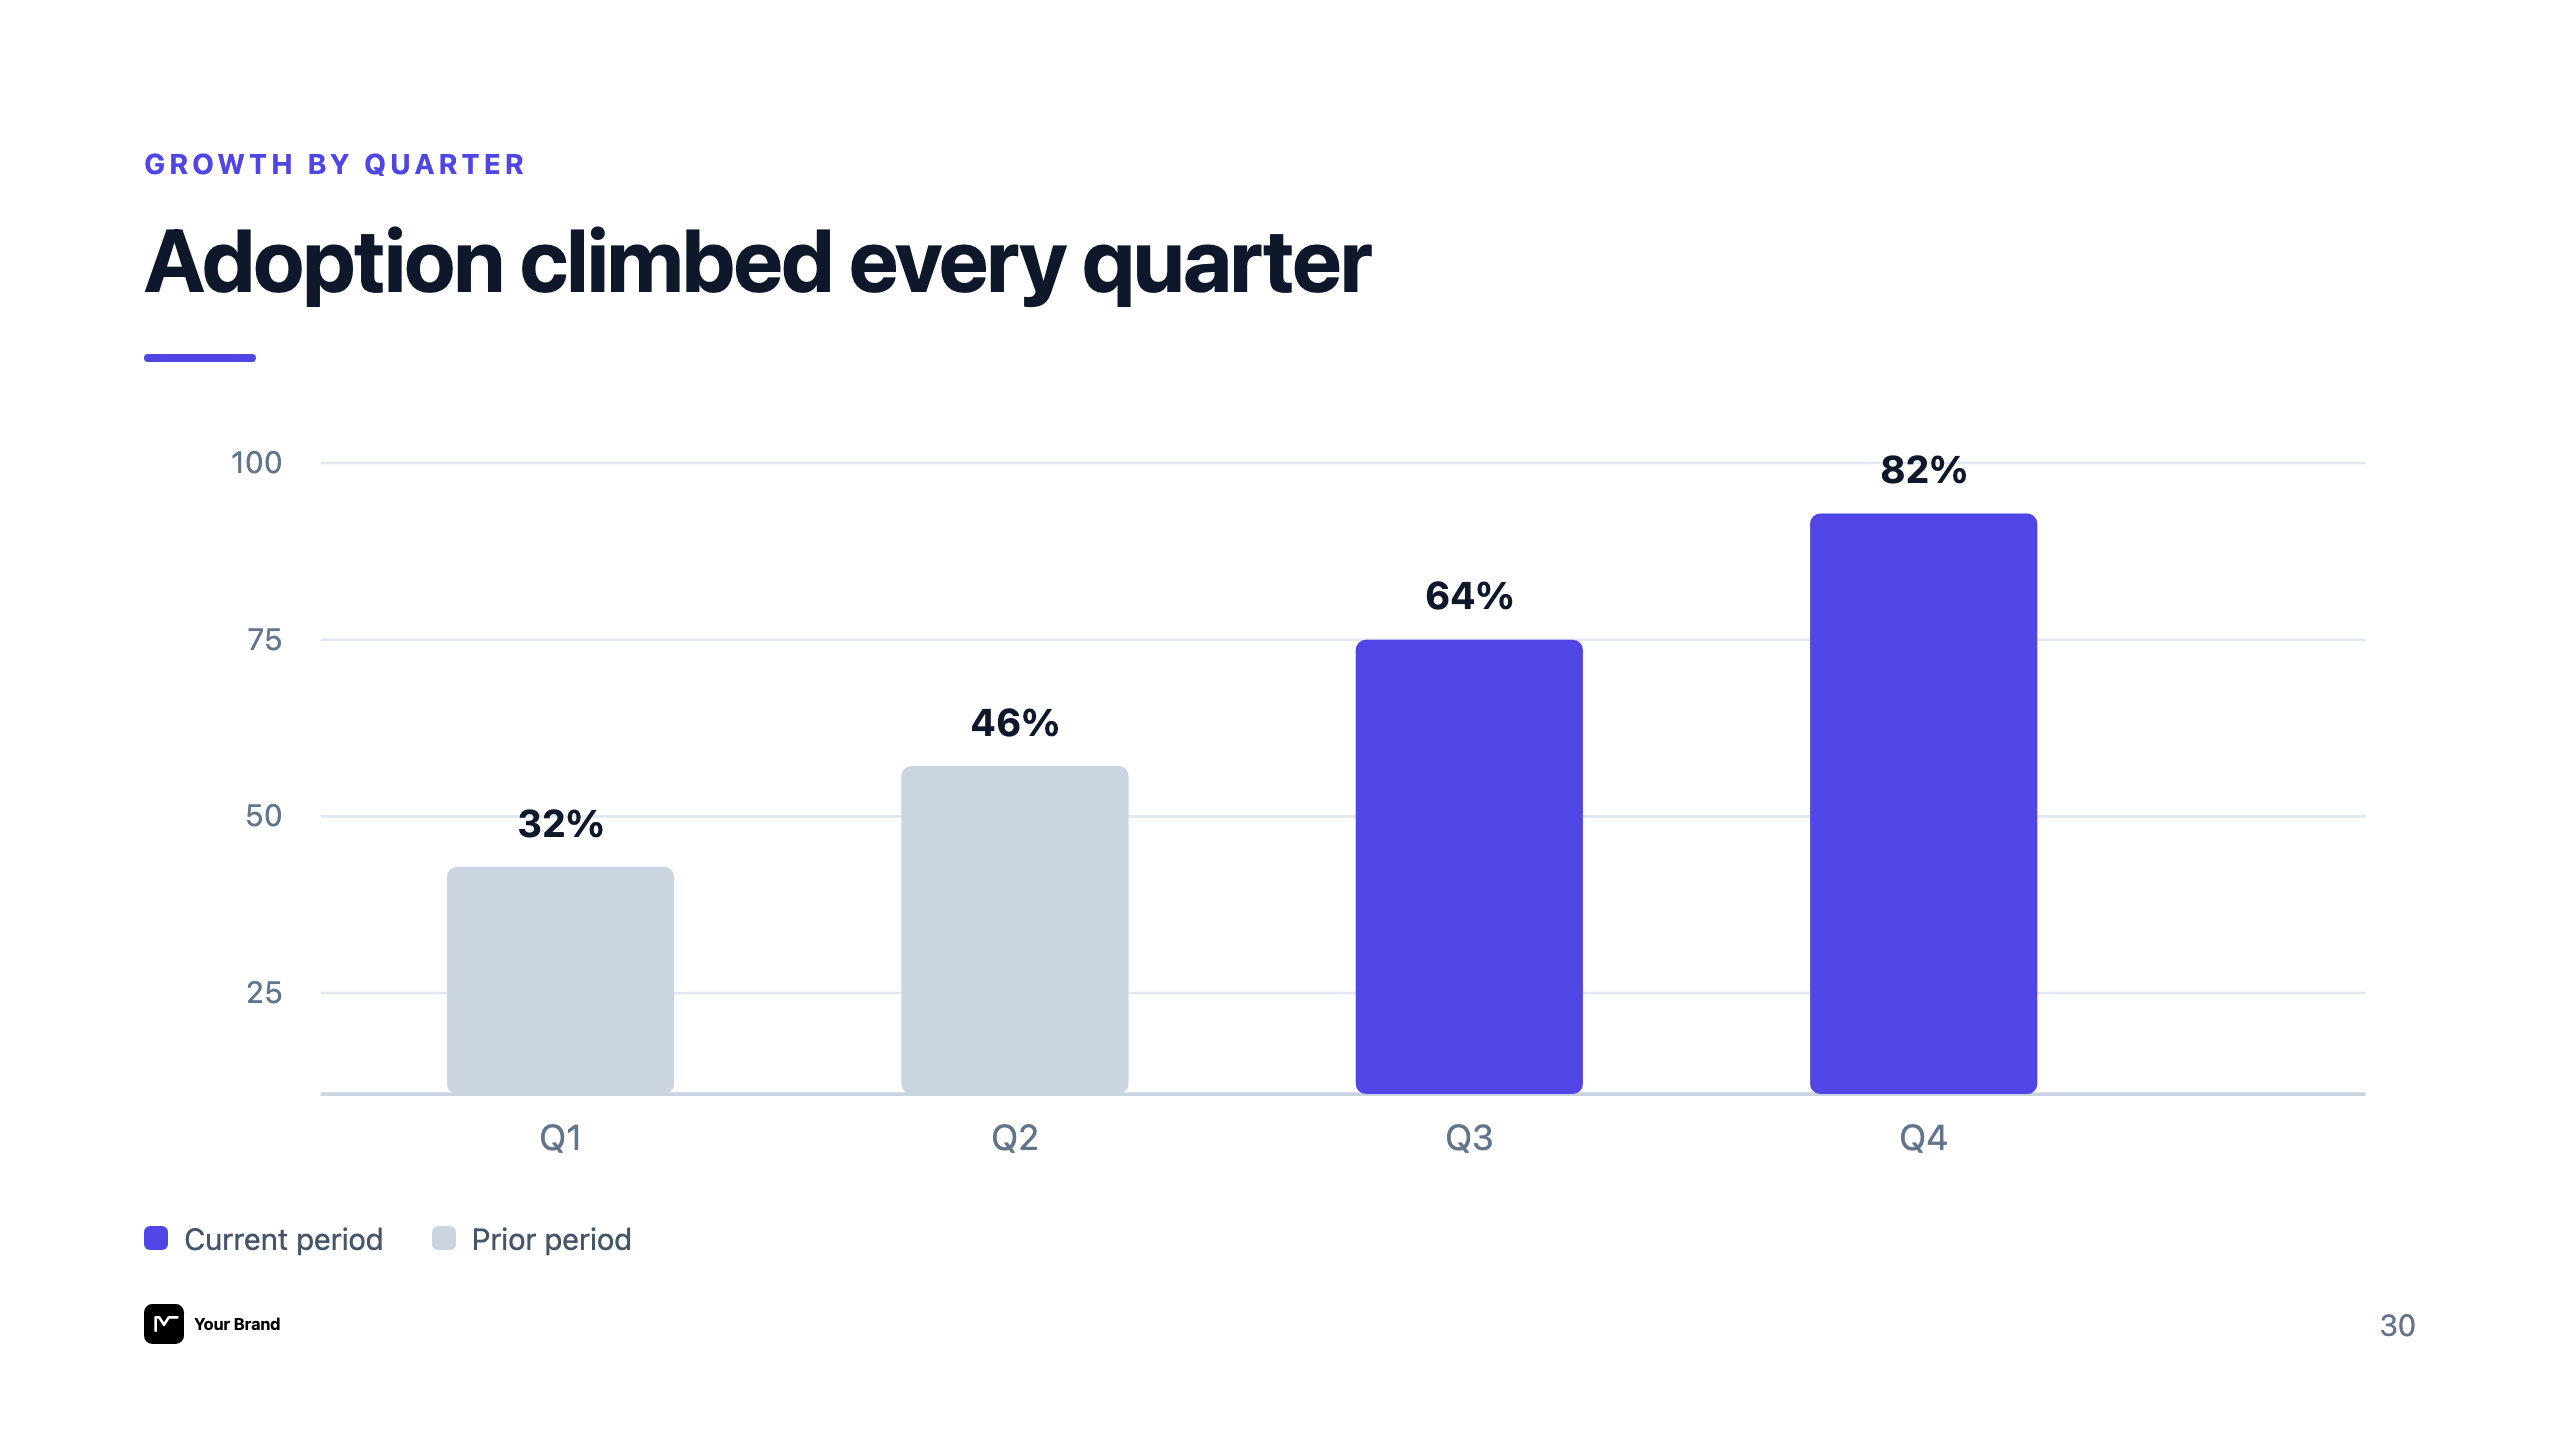
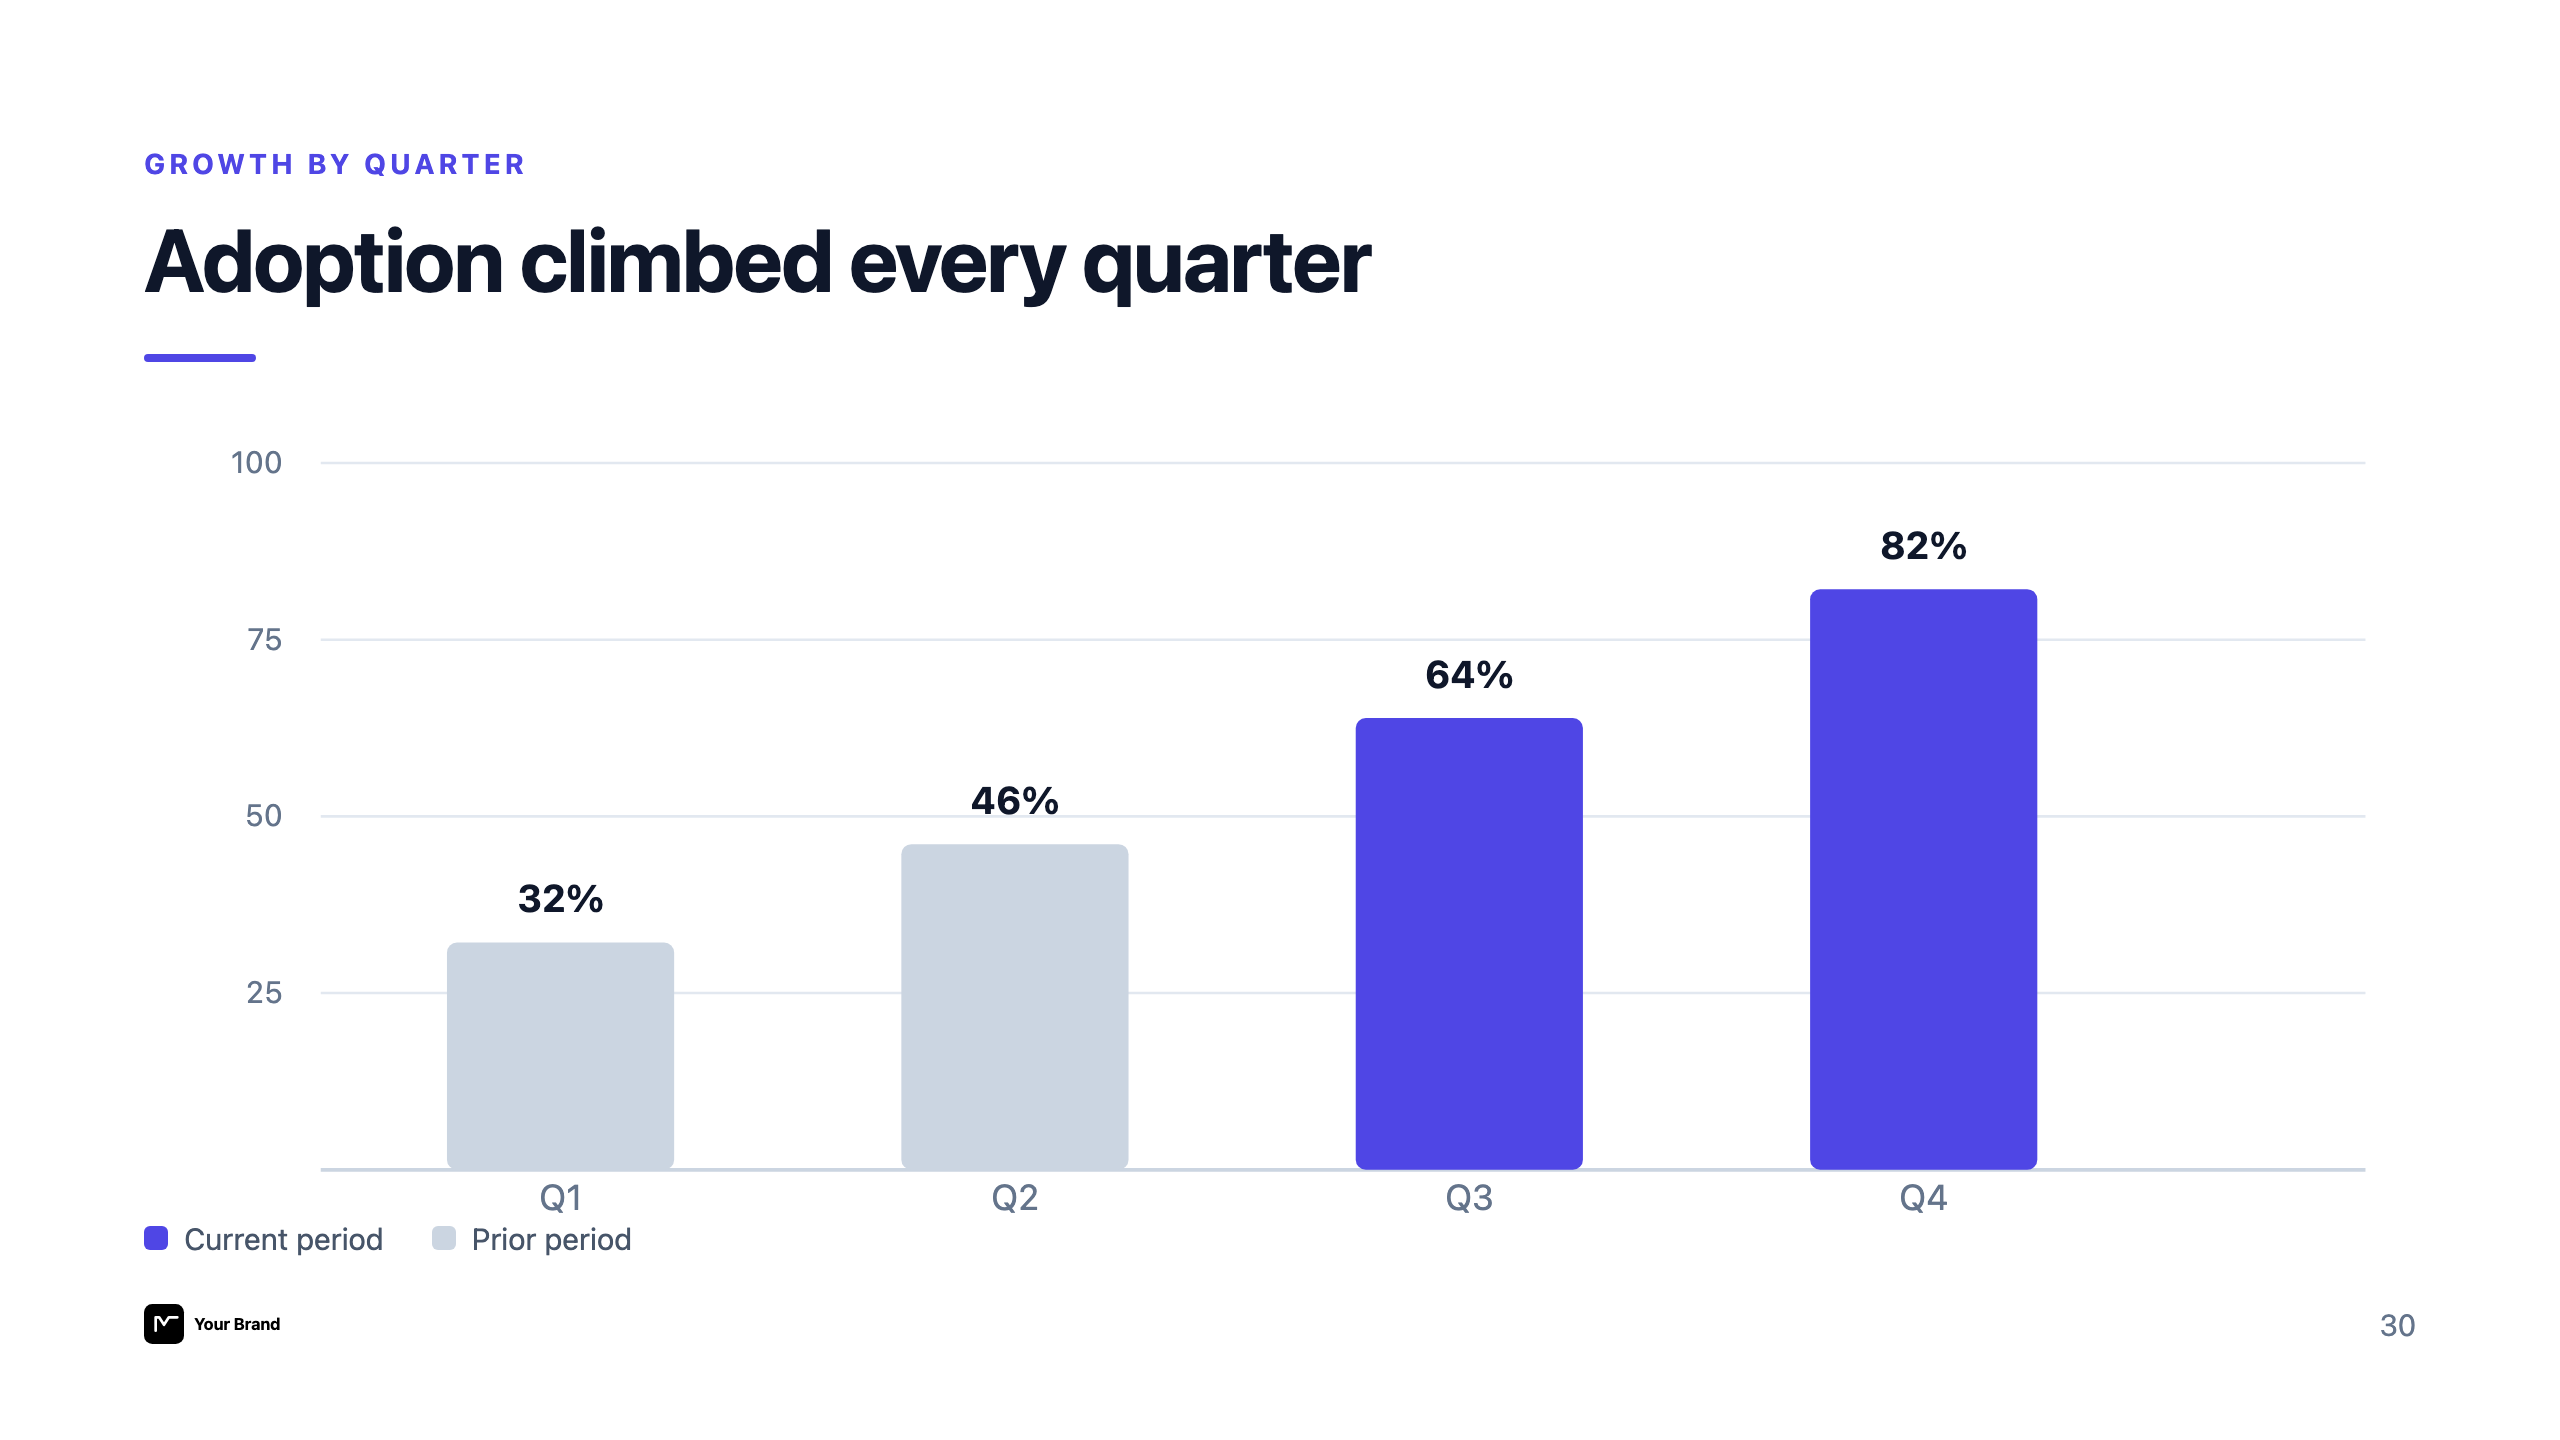
fix(slide-maker): bar-chart heights decode to y-axis (task-6 review)

diff --git a/skills/slide-maker/design-system/slides/30-bar-chart.html b/skills/slide-maker/design-system/slides/30-bar-chart.html
@@ -57,23 +57,23 @@
         <text class="gl" x="55" y="114" text-anchor="end">75</text>
         <text class="gl" x="55" y="184" text-anchor="end">50</text>
         <text class="gl" x="55" y="254" text-anchor="end">25</text>
-        <!-- x axis -->
-        <line class="axis" x1="70" y1="290" x2="880" y2="290"></line>
-        <!-- bars (baseline y=290) -->
-        <rect class="bar muted" x="120" y="200" width="90" height="90"  rx="4"></rect>
-        <rect class="bar muted" x="300" y="160" width="90" height="130" rx="4"></rect>
-        <rect class="bar"       x="480" y="110" width="90" height="180" rx="4"></rect>
-        <rect class="bar"       x="660" y="60"  width="90" height="230" rx="4"></rect>
+        <!-- x axis at true value 0 (gridline scale: 2.8px/unit, 0 -> y=320) -->
+        <line class="axis" x1="70" y1="320" x2="880" y2="320"></line>
+        <!-- bars: height = value x 2.8, top = 320 - height (decode exactly to the y-axis) -->
+        <rect class="bar muted" x="120" y="230" width="90" height="90"  rx="4"></rect>
+        <rect class="bar muted" x="300" y="191" width="90" height="129" rx="4"></rect>
+        <rect class="bar"       x="480" y="141" width="90" height="179" rx="4"></rect>
+        <rect class="bar"       x="660" y="90"  width="90" height="230" rx="4"></rect>
         <!-- value labels -->
-        <text class="val" x="165" y="188" text-anchor="middle">32%</text>
-        <text class="val" x="345" y="148" text-anchor="middle">46%</text>
-        <text class="val" x="525" y="98"  text-anchor="middle">64%</text>
-        <text class="val" x="705" y="48"  text-anchor="middle">82%</text>
+        <text class="val" x="165" y="218" text-anchor="middle">32%</text>
+        <text class="val" x="345" y="179" text-anchor="middle">46%</text>
+        <text class="val" x="525" y="129" text-anchor="middle">64%</text>
+        <text class="val" x="705" y="78"  text-anchor="middle">82%</text>
         <!-- category labels -->
-        <text class="cat" x="165" y="312" text-anchor="middle">Q1</text>
-        <text class="cat" x="345" y="312" text-anchor="middle">Q2</text>
-        <text class="cat" x="525" y="312" text-anchor="middle">Q3</text>
-        <text class="cat" x="705" y="312" text-anchor="middle">Q4</text>
+        <text class="cat" x="165" y="336" text-anchor="middle">Q1</text>
+        <text class="cat" x="345" y="336" text-anchor="middle">Q2</text>
+        <text class="cat" x="525" y="336" text-anchor="middle">Q3</text>
+        <text class="cat" x="705" y="336" text-anchor="middle">Q4</text>
       </svg>
     </div>
     <div class="legend" style="margin-bottom: var(--space-6);">
